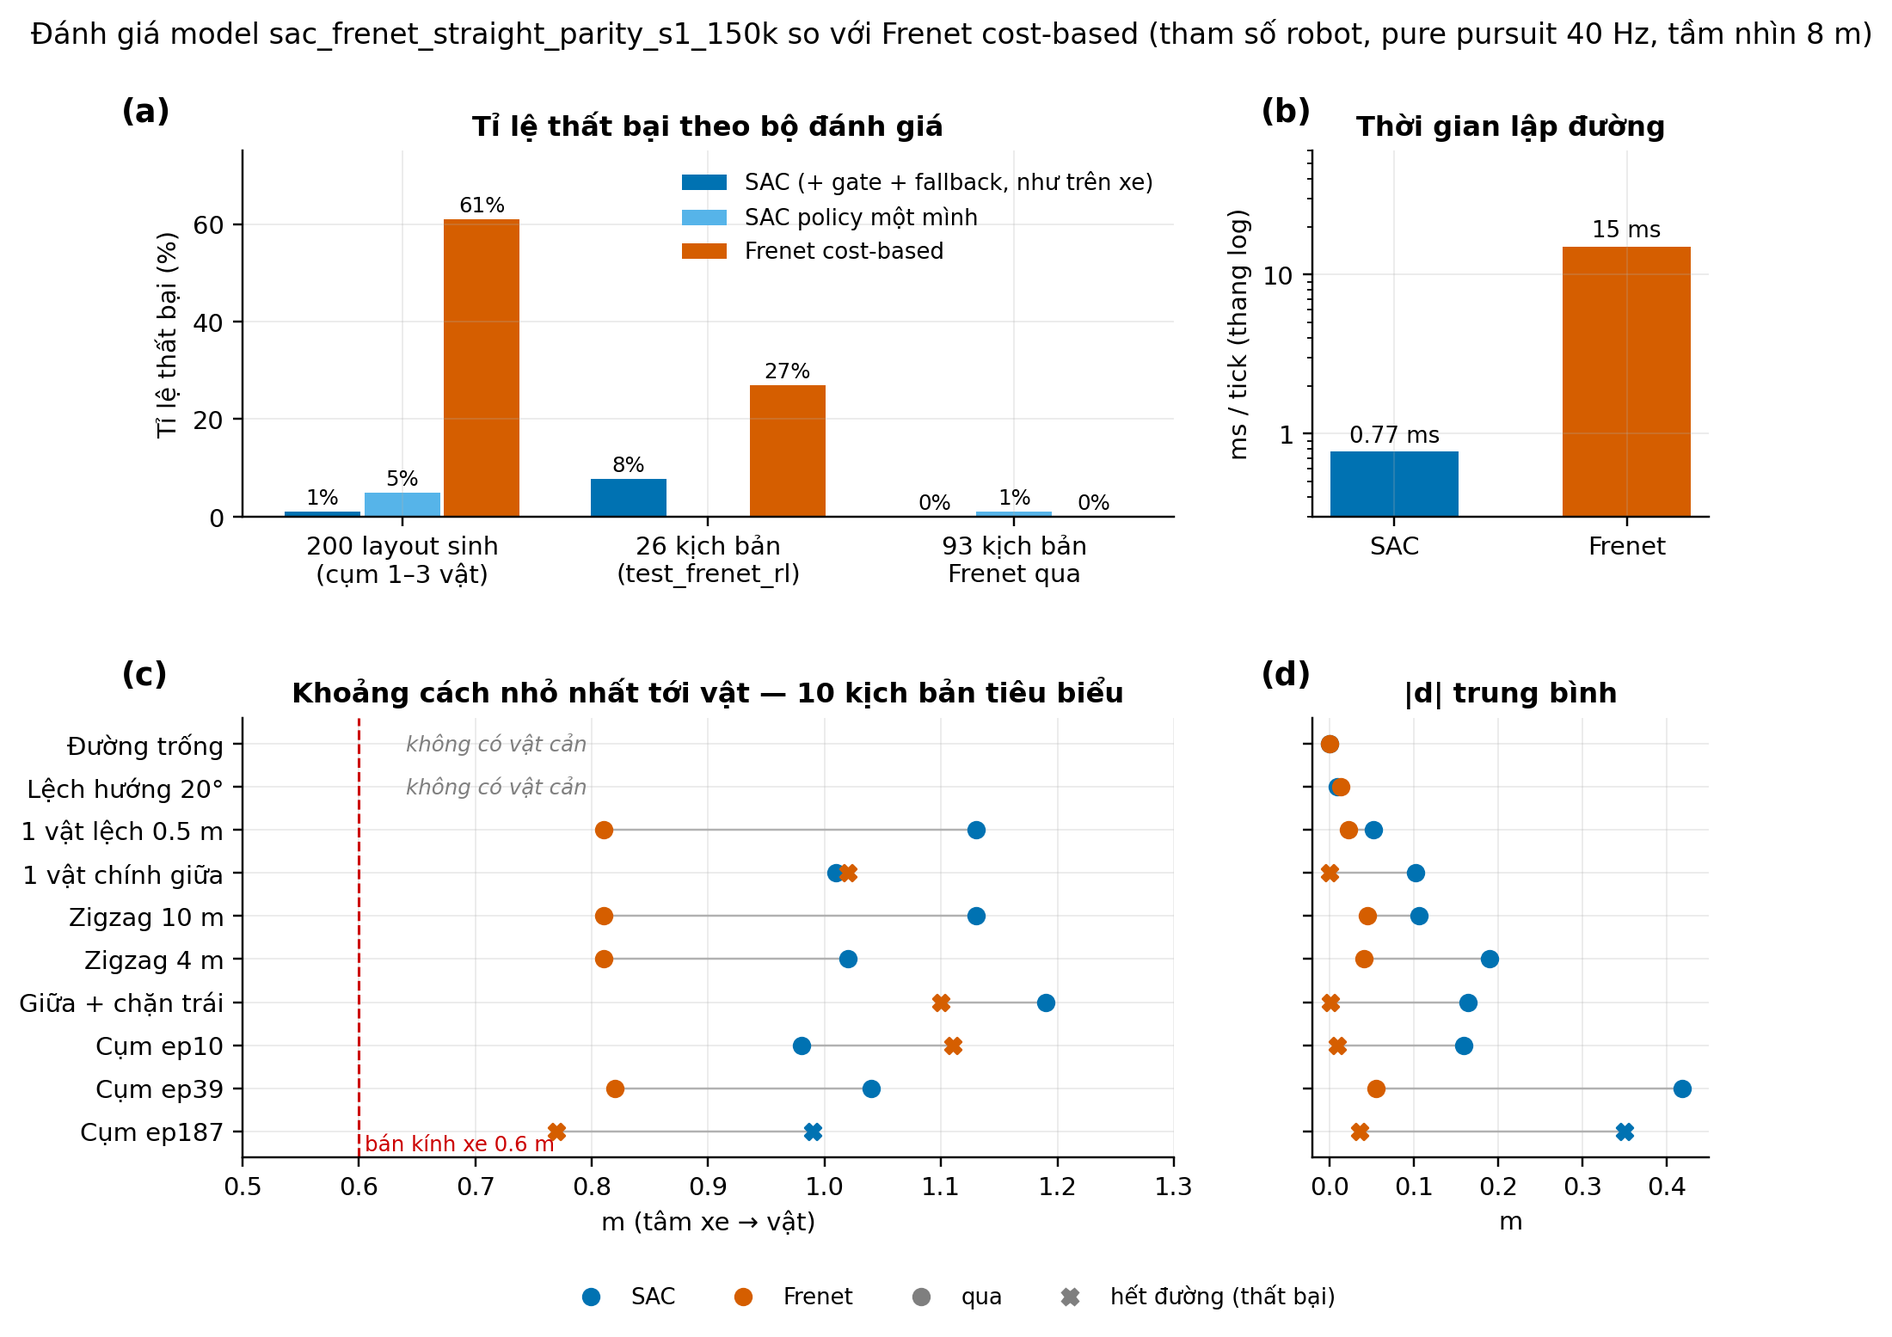
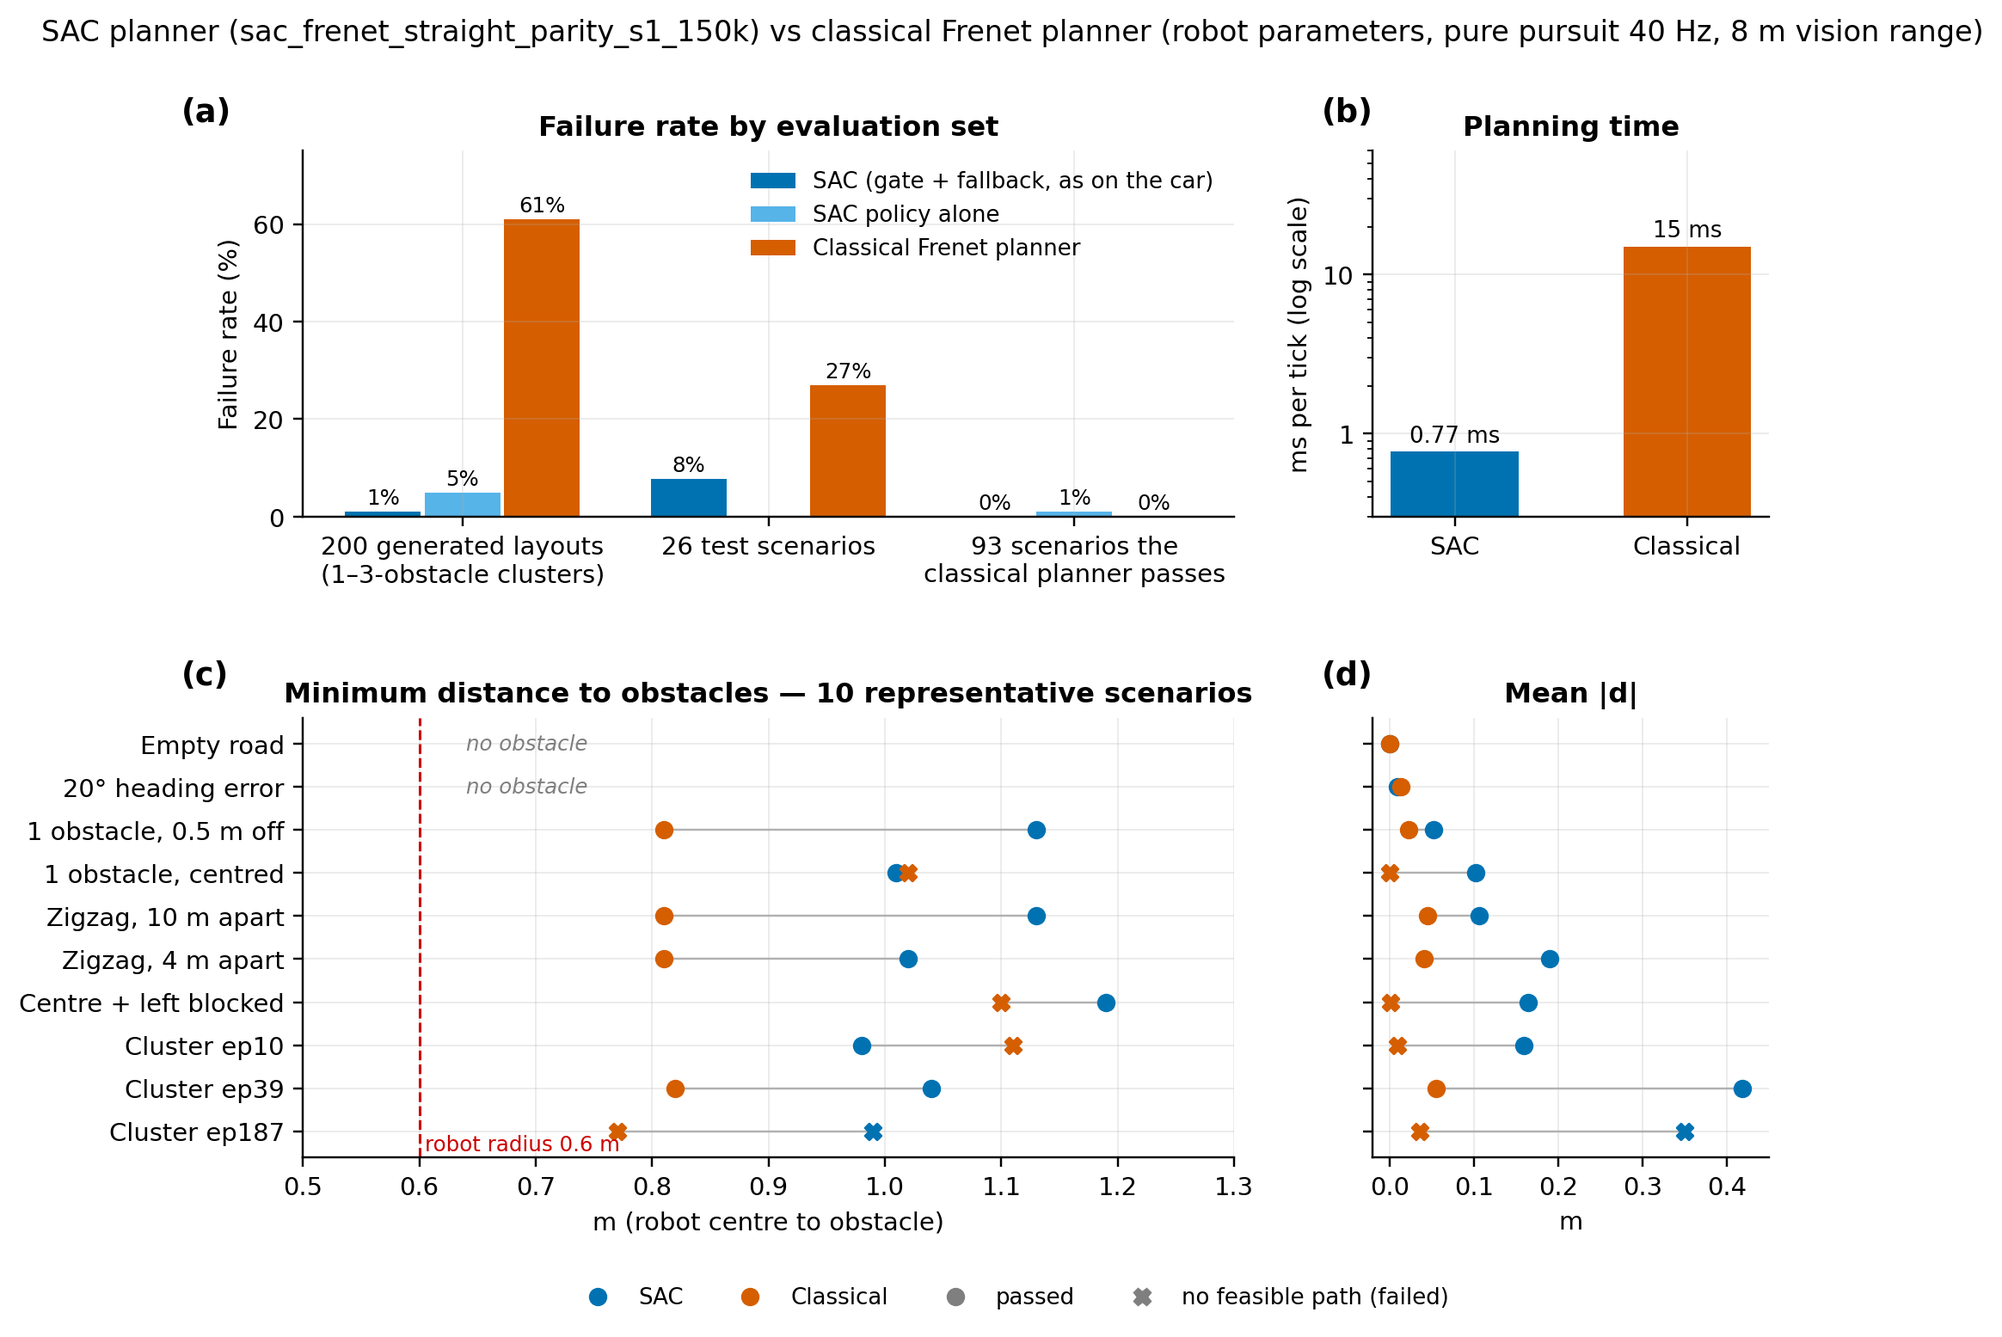
README: concise SAC section for the released model; English figures

diff --git a/README.md b/README.md
@@ -173,15 +173,14 @@ already has them (see `perception/model_paths.py`).
 
 ## Optional: RL lateral planner (SAC)
 
-In straight mode the classical planner enumerates ~117 candidate
-trajectories (lateral offset × horizon × speed) and keeps the lowest-cost
-one. The RL option replaces that **choice** with a Soft Actor-Critic policy
-that outputs the target lateral offset `d_target` and lateral horizon `Ti`
-directly. Everything else is unchanged: the same quintic/quartic polynomials
-build the single chosen path, the same pure pursuit tracks it, and curve mode
+In straight mode the classical planner enumerates candidate trajectories
+(lateral offset × horizon × speed) and keeps the lowest-cost one. The RL
+option replaces that **choice** with a Soft Actor-Critic policy that outputs
+the target lateral offset `d_target` and the lateral horizon `Ti`. The same
+polynomials build the path, the same pure pursuit tracks it, and curve mode
 always stays classical.
 
-**Switching it on** — in [`config/rl_car_params.yaml`](config/rl_car_params.yaml),
+**Switching it on.** In [`config/rl_car_params.yaml`](config/rl_car_params.yaml),
 under `control_node`:
 
 ```yaml
@@ -189,197 +188,98 @@ plan_use_rl: true        # false = classical Frenet cost-based (default)
 plan_rl_model_path: "~/ros2_ws/src/RL_CAR/models/sac_frenet_straight_parity_s1_150k.zip"
 ```
 
-It needs `stable-baselines3` and `torch` on the car; they are only imported
-when the flag is on. Every RL path still goes through the planner's hard
-checks (collision, speed, acceleration, curvature). If a path fails, that
-tick falls back to the classical planner and `control_node` logs a warning,
-so an RL mistake never reaches the motors.
+This needs `stable-baselines3` and `torch` on the car. They are only
+imported when the flag is on.
 
-Obstacles are only shown to the policy when they matter. Each tick first
-asks the policy for its plain lane-keeping path. The gate extends that path
-to the end of the vision range at its final offset. If the path is feasible
-and every obstacle stays at least 0.9 m (robot radius 0.6 + 0.3 m margin,
-the same gap the feasibility rules require) from it, the path is used as is.
-Without this gate the policy swerved around obstacles it could have passed
-going straight. The extension matters with the robot's settings: a path is
-only 2–3 m long, while obstacles are visible up to 8 m. Checking the short
-path alone let the car drive straight at obstacles 3–6 m ahead until it was
-too late to avoid them (9 of 20 multi-obstacle failures).
+**What runs on each planner tick**
+([`planner_motion/logic.py`](planner_motion/logic.py),
+[`planner_motion/rl_policy.py`](planner_motion/rl_policy.py)):
 
-**How it was trained** — `train_frenet_rl.py` wraps the straight-mode
-planner in a Gymnasium environment:
+1. **Gate.** The policy first proposes a plain lane-keeping path. The path
+   is extended at its final offset to the 8 m vision range. If every
+   obstacle stays at least 0.9 m away (robot radius 0.6 m + 0.3 m), that
+   path is used.
+2. **Policy.** Otherwise the policy chooses `d_target` and `Ti` from the
+   observation of the 3 nearest obstacles.
+3. **Safety.** The path goes through the planner's hard checks (collision,
+   speed, acceleration, curvature). If it fails, that tick falls back to the
+   classical planner, so an RL mistake never reaches the motors.
 
-- **Observation:** `[d, psi]` plus, for each of the 3 nearest obstacles
-  ahead, `[distance, lateral offset, present flag]`, seen in a mirrored frame
-  (below). The mirror side is latched on the nearest obstacle.
-- **Reward:** the negative of the classical planner's cost (jerk, time,
-  centre offset, obstacle clearance) plus a constant per-step bonus, with
-  terminal penalties for collision and leaving the lane. A constant shift
-  does not change which action is cheaper, so the policy optimises the same
-  objective the classical planner minimises by search.
-- **Episodes:** a stream of static obstacle clusters along the road
-  (clusters 12–25 m apart, each present with probability 0.7). Each cluster
-  holds 1–3 obstacles within 6 m, so up to 3 can be in view at once; 20 %
-  of obstacles are near the centreline. Every layout is checked for
-  feasibility and regenerated if it fails (see below).
-- **Robot settings:** planner (`plan_*`) and pure pursuit (`lookahead_distance`,
-  `max_wheel_speed`) parameters are read from
-  [`config/rl_car_params.yaml`](config/rl_car_params.yaml), so the policy
-  optimises the same cost as the classical planner on the car.
-- **Timing:** each RL decision is held for 0.5 s. Inside it, pure pursuit
-  runs at 40 Hz and the path is rebuilt from the current state on every tick.
-  On the car the policy is queried on every planner tick.
-- **Action shaping:** the offset output goes through a signed square
-  (`action_power: 2`) before scaling to `d_target`, so small outputs map
-  to a near-zero offset and the empty-road lane keeping is exact.
-- **Terminal penalties** (collision, leaving the lane) are 3000, and all
-  rewards are scaled by 0.05. With the robot's obstacle cost, passing one
-  obstacle costs ~460 (clearance 1.2 m), so smaller penalties would make
-  crashing cheaper than passing.
+### Model
 
-**Feasibility constraints** (`feasible_layout` in `train_frenet_rl.py`).
-These are geometric and independent of any planner:
+`models/sac_frenet_straight_parity_s1_150k.zip` (+ `.meta.json`, the
+encoding constants from training, which the car needs to decode actions).
+It was trained with `train_frenet_rl.py`, a Gymnasium environment around the
+straight-mode planner.
 
-| # | Constraint |
+| | |
 |---|---|
-| R1 | 1–3 obstacles per cluster, spread over at most 6 m; clusters 12–25 m apart. |
-| R2 | Every obstacle is on the road: \|d\| ≤ 1.8 m. |
-| R3/R4 | Obstacles closer than 1.5 m along the road form a row. Each row must leave a gap inside the lane (\|d\| ≤ 2.2 m) at least 0.9 m (robot radius 0.6 + 0.3 m margin) from every obstacle. |
-| R5 | Between consecutive rows the car can shift sideways by at most 0.4 × the distance between them. |
+| Algorithm | SAC (stable-baselines3), MlpPolicy, gSDE; lr 3e-4, buffer 200k, batch 256, `learning_starts` 5k; 150k steps, seed 1 |
+| Observation (11) | `d`, `psi`, and for each of the 3 nearest obstacles within 8 m: distance, lateral offset, present flag. Mirrored so the nearest obstacle is always on one side; the side is latched per obstacle |
+| Action (2) | `d_target` ∈ [−2.4, 2.4] m (signed-square mapping), `Ti` ∈ [2.0, 3.0] s |
+| Reward | Minus the classical planner's cost (jerk, time, centre offset, obstacle clearance) + 2 per step; −3000 for no feasible path or leaving the lane; all scaled by 0.05 |
+| Simulation | Robot parameters from the config (1 m/s, radius 0.6 m, clearance 1.2 m, lookahead 0.8 m); each decision held 0.5 s, pure pursuit and path rebuild at 40 Hz; 60 m road |
+| Scenarios | Clusters of 1–3 static obstacles within 6 m, 12–25 m apart; only layouts that pass the feasibility check below |
 
-A dynamic programme propagates the reachable lateral intervals from row to
-row. If the set becomes empty, the layout is infeasible. Frenet is not used
-as the filter because, with the robot's settings, it cannot pass even a
-single centred obstacle.
+**Feasibility check** (`feasible_layout`). The check is geometric and does
+not depend on any planner. Obstacles lie within |d| ≤ 1.8 m. Obstacles less
+than 1.5 m apart along the road form a row, and every row must leave a gap
+of at least 0.9 m inside |d| ≤ 2.2 m. Between rows the car can shift
+sideways by at most 0.4 × their distance. A dynamic programme over the
+reachable lateral intervals rejects layouts with no way through.
 
-Three design choices fix failures seen in earlier models:
-
-| Problem | Evidence | Fix |
-|---|---|---|
-| A continuous policy has to pass through `d_target ≈ 0` when it switches from "avoid right" to "avoid left", so there is always a band of obstacle positions near the centreline where it drives straight into the obstacle. More training only narrows or moves the band. | Previous model: 18/87 collisions with obstacles within ±0.05 m of the car's line. | **Mirrored frame + side latch.** The policy always sees the obstacle on its left; if it is really on the right, the state is mirrored going in and the action coming out. Picking a side becomes a sign test, and the side is latched per obstacle so sensor noise cannot flip it mid-manoeuvre. |
-| "No obstacle" was encoded exactly like "obstacle on the centreline at the edge of vision". | Erratic lane keeping, no stable point at the lane centre. | Explicit obstacle-in-view flag. |
-| The critic valued being off-centre, so the policy drifted ~0.7 m. A +200 goal bonus at the end of the road made value depend on distance travelled, which the policy cannot observe. Offset also grew with distance (every episode starts near the centre). The policy mistook "offset" for "near the goal". | Remaining return rose from −7.6 at the start to +164 near the goal. Forcing the centre on an empty road scored 90 vs 37 for the policy. | Per-step bonus instead of a goal bonus. The end of the road is a time-limit truncation, not a terminal state. |
-| The gate used the 1.2 m planning clearance. Layouts with a gap between 0.9 and 1.2 m wide always reached the policy, which then learned to swerve wide everywhere. | Previous model: some layouts the classical planner passes were failed by SAC. | Gate at 0.9 m, the same gap rule R3/R4 uses. |
-| A linear offset output left a small constant bias on an empty road. | Previous model: lane offset 0.06 m. | Signed-square action mapping (`action_power: 2`). |
-
-The observation/action encoding (including the mirrored frame) lives in
-[`planner_motion/rl_policy.py`](planner_motion/rl_policy.py) and is shared
-by training and the live node. The constants used at training time are saved
-next to the model (`.meta.json`), so decoding on the car matches training
-even if the robot's `plan_*` parameters differ. Older models without the new
-meta fields still load and run as before.
-
-Model in `models/`: `sac_frenet_straight_parity_s1_150k.zip` (+ `.meta.json`),
-the one the config points to. Robot settings, clearance 1.2 m, 1–3 obstacle
-clusters, 3-obstacle observation, gate at 0.9 m, `action_power: 2`, seed 1,
-150k steps. Earlier models were removed from the repo; they are still in the
-git history.
-
-```bash
-pip install -r requirements.txt
-python3 train_frenet_rl.py            # trains, writes models/sac_frenet_straight.zip + .meta.json
-python3 test_frenet_rl.py [model] [--set single|multi|hard|all|report] [--video DIR] [--horizon T]   # animated, SAC and classical side by side
-python3 compare_rl_frenet.py [model] [--multi]                      # tables: left / right / centre / none, or multi-obstacle
-```
-
-**Results in simulation (robot settings, clearance 1.2 m).** Model
-`sac_frenet_straight_parity_s1_150k`. Both planners replan every tick, and
-pure pursuit runs at 40 Hz. "SAC" means the logic used on the car: the
-gate, the policy, the hard checks, and a fallback to the classical planner
-on any tick where the RL path is rejected.
-
-200 generated layouts with 1–3-obstacle clusters (feasible by the constraints above):
-
-| | Classical planner | SAC |
-|---|---|---|
-| Failures | **122/200**, all "no feasible path" | **2/200** |
-| Min distance to obstacles (5th percentile) | — | 0.93 m |
-| Mean \|d\| | — | 0.15 m |
-| Planning time per tick | ~15 ms | 0.8 ms |
-| Ticks that fell back to classical | — | 0.06 % |
-
-The classical planner also fails both SAC failures. Over every layout the
-classical planner passes (78 generated + 15 hand-built), SAC fails **none**.
-Without the fallback, the policy alone fails 10/200.
-
-Single obstacle:
-- Policy alone: 0/87 collisions for obstacles near the car's line, and
-  0/400 over random episodes with ±0.05 m obstacle measurement noise.
-- Empty road: lane offset 0.00 m (same as classical).
-
-Why the classical planner fails: each tick it picks the cheapest path on a
-discrete grid, and `plan_center_weight` 20 pulls it strongly to the centre.
-It stays centred until the obstacle is too close, then finds no feasible
-path. The policy learned to start avoiding earlier.
-
-Caveats:
-- Single seed, simulation only.
-- Evaluation layouts come from the same generator as training (different seeds).
-- The classical baseline uses the robot's current tuning (horizon 2–3 s).
-  A classical planner with a longer horizon, able to use the 8 m vision
-  range, has not been compared yet.
-
-The released model is the 150k checkpoint: the first one with no layout
-that the classical planner passes and SAC fails.
-
-**Training curves.** Built from the 150 000 transitions (1 376 episodes)
-in the replay buffer saved at 150k steps; lines are 50-episode moving
-averages. The failure rate during training includes exploration noise and
-runs without the gate, so it is higher than the evaluation results.
+### Training
 
 ![SAC training curves](videos_report/train_curves.png)
 
-- (a) Return per episode rises from about −200 to about −80 within 15k steps,
-  then slowly to about −30 by 150k.
-- (b) Failed episodes drop from ~90 % to 10–20 %; leaving the lane is
-  near zero after ~45k steps.
-- (c) On an empty road, |d| falls from 0.35 m to ~0.1 m.
-- (d) With an obstacle in view, |d| settles around 0.4 m (the avoidance
-  offset).
+The curves come from all 1 376 training episodes (50-episode moving
+average). They include exploration noise and run without the gate, so they
+are worse than the evaluation below.
 
-**Evaluation summary** of the final model against the classical planner:
+### Results in simulation
+
+Both planners use the robot's parameters, replan every tick, and choose `Ti`
+from the same 2.0–3.0 s range. "SAC" is the full logic used on the car:
+gate, policy, hard checks and fallback.
 
 ![Evaluation of the SAC planner vs the classical planner](videos_report/eval_results.png)
 
-Side-by-side videos of the 10 representative scenarios are in
-[`videos_report/`](videos_report/) (`<scenario>_compare.mp4`, SAC left,
-classical right).
+| | Classical planner | SAC |
+|---|---|---|
+| Failures, 200 generated layouts | 122/200 | **2/200** (policy alone: 10/200) |
+| Failures, 26 test scenarios | 7/26 | **2/26** |
+| Scenarios the classical planner passes but SAC fails | — | **0/93** |
+| Min distance to obstacles, 5th percentile | — | 0.93 m |
+| Lane offset on an empty road | 0.00 m | 0.00 m |
+| Planning time per tick | ~15 ms | 0.8 ms |
 
-**Representative scenarios** (`test_frenet_rl.py --set report --video DIR`).
-In the test script both planners pick `Ti` from the same range, 2.0–3.0 s:
-the classical planner samples 2.0, 2.2, …, 3.0 s (`np.arange` on the car
-stops at 2.8 s), and the policy picks any value in between. The panel shows
-5 m ahead. `--video DIR` saves an H.264 side-by-side video per scenario
-(`<name>_compare.mp4`).
+- **No collisions.** Every failure is "no feasible path". The classical
+  planner stays near the centre (`plan_center_weight` 20) until the obstacle
+  is too close to avoid. SAC starts avoiding earlier.
+- **Trade-off.** SAC swerves wider (mean |d| 0.1–0.4 m vs 0.02–0.06 m with
+  several obstacles) and keeps more distance (1.0–1.2 m vs 0.81 m).
+- **Videos.** Side-by-side videos of the 10 representative scenarios are in
+  [`videos_report/`](videos_report/) (`<scenario>_compare.mp4`, SAC left,
+  classical right).
 
-| # | Scenario | Shows | SAC | Min dist (m) | Mean \|d\| (m) | Classical | Min dist (m) | Mean \|d\| (m) |
-|---|---|---|---|---|---|---|---|---|
-| 1 | no_obstacle | Lane keeping, empty road | pass | — | 0.000 | pass | — | 0.000 |
-| 2 | heading_offset_left | Recovery from a 20° heading error | pass | — | 0.009 | pass | — | 0.013 |
-| 3 | obstacle_left0.5 | One off-centre obstacle | pass | 1.13 | 0.052 | pass | 0.81 | 0.023 |
-| 4 | obstacle_center | One centred obstacle | pass | 1.01 | 0.102 | **no path** | 1.02 | 0.000 |
-| 5 | zigzag trái→phải | Two staggered obstacles, 10 m apart | pass | 1.13 | 0.106 | pass | 0.81 | 0.045 |
-| 6 | zigzag sát (4 m) | Two staggered obstacles, 4 m apart | pass | 1.02 | 0.190 | pass | 0.81 | 0.041 |
-| 7 | giữa + chặn trái | Centred obstacle, left side blocked | pass | 1.19 | 0.164 | **no path** | 1.10 | 0.001 |
-| 8 | gen_ep10_Frenet_fail | Generated cluster, only SAC passes | pass | 0.98 | 0.159 | **no path** | 1.11 | 0.009 |
-| 9 | gen_ep39_both_ok | Generated cluster, both pass | pass | 1.04 | 0.418 | pass | 0.82 | 0.055 |
-| 10 | gen_ep187_both_fail | Limitation: both fail | **no path** | 0.99 | 0.350 | **no path** | 0.77 | 0.036 |
+**Caveats**
+- One seed, simulation only. Evaluation layouts come from the training
+  generator, with different seeds.
+- Path length is not the cause of the gap: with the same fixed `Ti` for
+  both planners (`--horizon 3.0`) the results are unchanged.
+- Both planners receive the same obstacles, but the classical cost only
+  penalises obstacles near its 2–3 m path, while the gate checks up to 8 m.
+  Part of SAC's earlier reaction comes from this hand-written gate. A
+  classical planner with the same 8 m check has not been compared.
 
-SAC fails 1/10 and the classical planner 4/10. There are no collisions:
-every failure is "no feasible path". SAC swerves wider (higher mean |d|) and
-keeps more distance from obstacles (1.0–1.2 m vs 0.81 m). On all 26
-scenarios (`--set all`) SAC fails 2/26 and the classical planner 7/26.
+### Commands
 
-Fairness checks:
-- **Path length.** With `--horizon 3.0` both planners use the same fixed
-  `Ti`, so their paths have the same length (2.8 m). The results do not
-  change (2/26 vs 7/26). Adding `Ti` = 3.0 s to the classical grid does not
-  change them either. The classical failures are not caused by shorter paths.
-- **Obstacle information.** Both planners receive the same obstacles
-  (everything within 8 m). The classical cost only penalises obstacles near
-  its 2–3 m path, while the SAC gate checks the straight path up to 8 m. Part
-  of SAC's earlier reaction comes from this hand-written gate, not from
-  learning.
+```bash
+pip install -r requirements.txt
+python3 train_frenet_rl.py                          # train; writes models/sac_frenet_straight.zip + .meta.json
+python3 test_frenet_rl.py [model] [--set single|multi|hard|all|report] [--video DIR] [--horizon T]
+python3 compare_rl_frenet.py [model] [--multi]      # result tables
+```
 
 ## Known limitations
 
